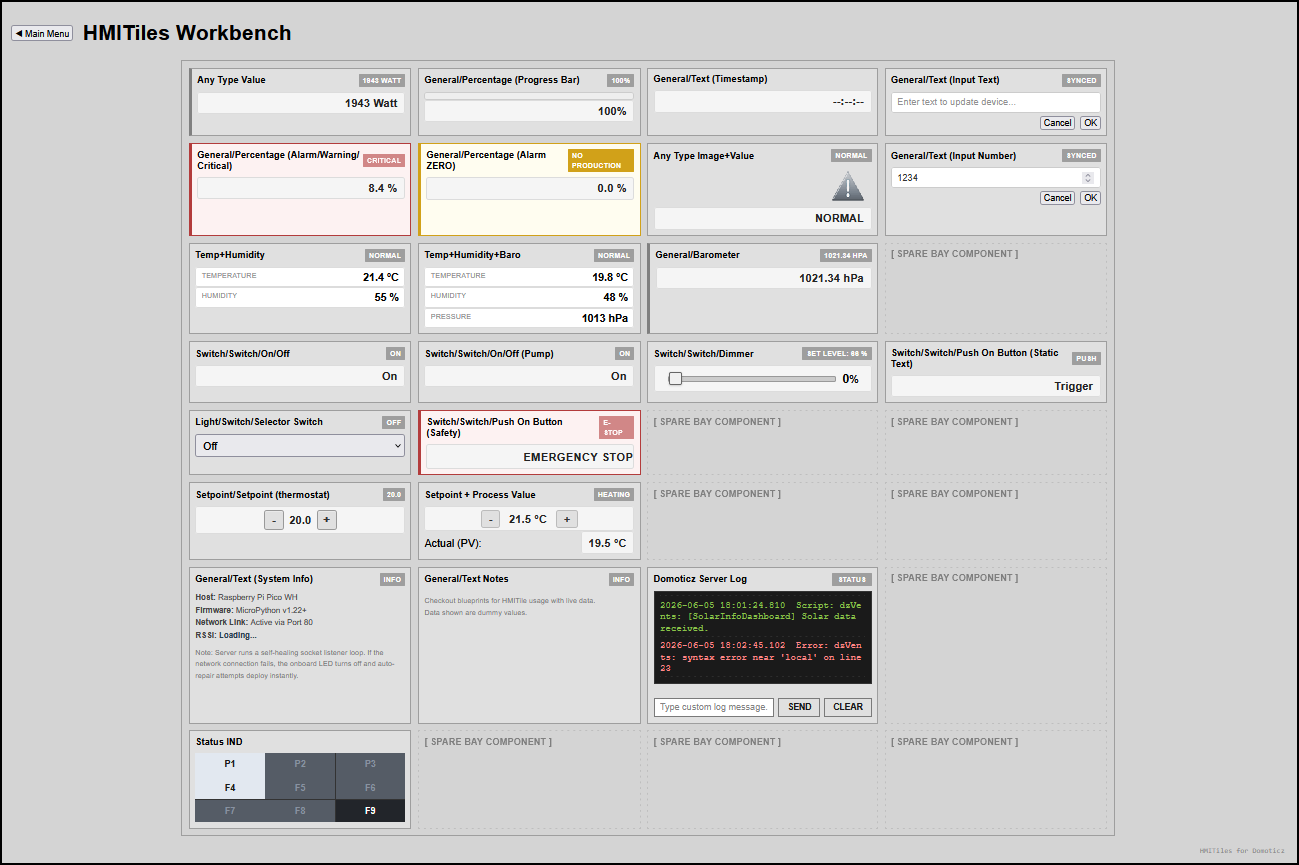
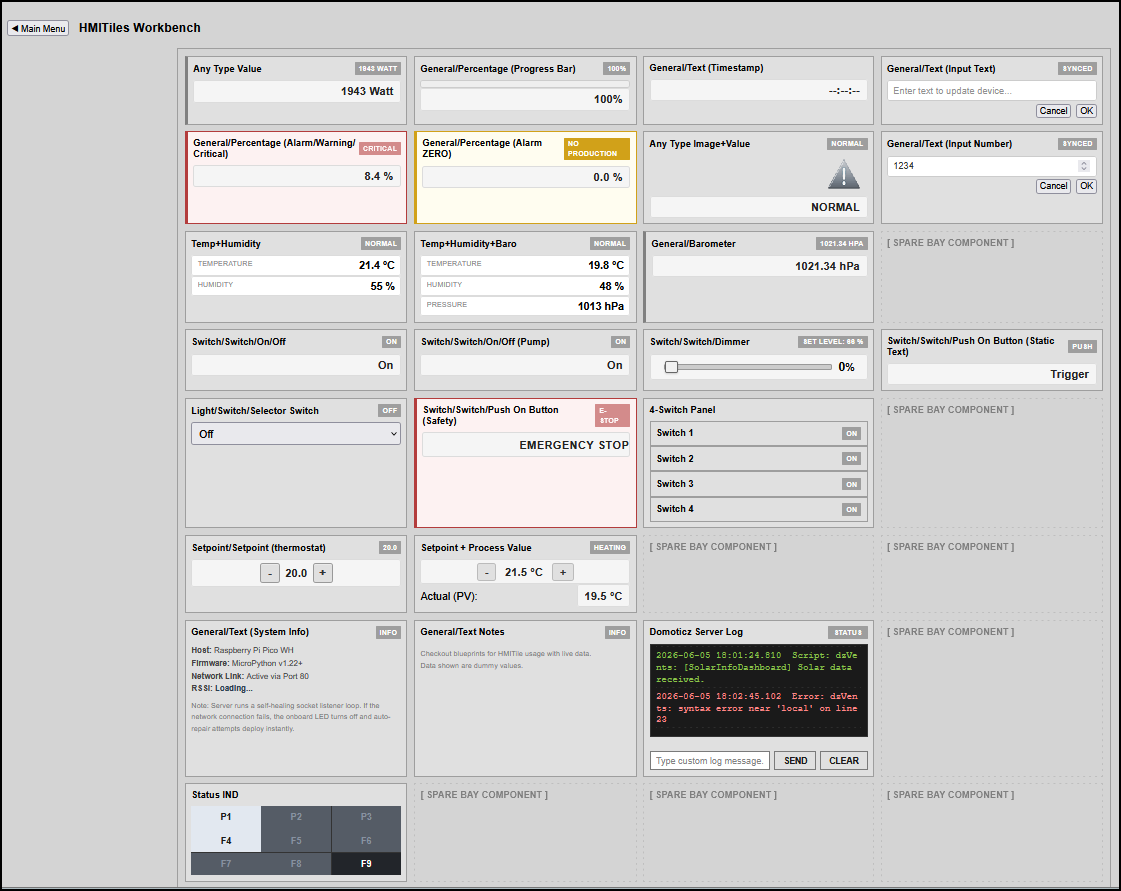
Update

diff --git a/blueprints/4switchpaneltile/4switchpaneltile/index.html b/blueprints/4switchpaneltile/4switchpaneltile/index.html
@@ -36,41 +36,74 @@
 				<div class="hmi-pack-label">4-Switch Panel</div>
 			</div>
 
-			<div class="hmi-value-grid" style="display: grid; grid-template-columns: repeat(2, 1fr); gap: 10px; width: 100%; margin-bottom: 12px;">
-
+			<div class="hmi-value-grid">
 				<!-- SWITCH 1 (IDX 1) -->
-				<div class="hmi-pack-card" data-type="switch" data-device-idx="1" style="margin: 0; min-height: auto;">
+				<div class="hmi-pack-innercard" data-type="switch" data-device-idx="1" style="margin: 0; min-height: auto;">
 					<div class="hmi-card-header">
 						<div class="hmi-pack-label">Switch 1</div>
 						<div class="hmi-badge hmi-clickable-badge">OFF</div>
 					</div>
 				</div>
-
 				<!-- SWITCH 2 (IDX 6) -->
-				<div class="hmi-pack-card" data-type="switch" data-device-idx="6" style="margin: 0; min-height: auto;">
+				<div class="hmi-pack-innercard" data-type="switch" data-device-idx="6" style="margin: 0; min-height: auto;">
 					<div class="hmi-card-header">
 						<div class="hmi-pack-label">Switch 2</div>
 						<div class="hmi-badge hmi-clickable-badge">OFF</div>
 					</div>
 				</div>
-
 				<!-- SWITCH 3 (IDX 17) -->
-				<div class="hmi-pack-card" data-type="switch" data-device-idx="17" style="margin: 0; min-height: auto;">
+				<div class="hmi-pack-innercard" data-type="switch" data-device-idx="17" style="margin: 0; min-height: auto;">
 					<div class="hmi-card-header">
 						<div class="hmi-pack-label">Switch 3</div>
 						<div class="hmi-badge hmi-clickable-badge">OFF</div>
 					</div>
 				</div>
-
 				<!-- SWITCH 4 (IDX 18) -->
-				<div class="hmi-pack-card" data-type="switch" data-device-idx="18" style="margin: 0; min-height: auto;">
+				<div class="hmi-pack-innercard" data-type="switch" data-device-idx="18" style="margin: 0; min-height: auto;">
 					<div class="hmi-card-header">
 						<div class="hmi-pack-label">Switch 4</div>
 						<div class="hmi-badge hmi-clickable-badge">OFF</div>
 					</div>
 				</div>
 			</div>
+		</div>
 
+		<div class="hmi-pack-card">
+
+			<div class="hmi-card-header">
+				<div class="hmi-pack-label">4-Switch Panel</div>
+			</div>
+
+			<div class="hmi-value-grid">
+				<!-- SWITCH 1 (IDX 1) -->
+				<div class="hmi-pack-innercard" data-type="switch" data-device-idx="1" style="margin: 0; min-height: auto;">
+					<div class="hmi-card-header">
+						<div class="hmi-pack-label">Switch 1</div>
+						<div class="hmi-badge hmi-clickable-badge">OFF</div>
+					</div>
+				</div>
+				<!-- SWITCH 2 (IDX 6) -->
+				<div class="hmi-pack-innercard" data-type="switch" data-device-idx="6" style="margin: 0; min-height: auto;">
+					<div class="hmi-card-header">
+						<div class="hmi-pack-label">Switch 2</div>
+						<div class="hmi-badge hmi-clickable-badge">OFF</div>
+					</div>
+				</div>
+				<!-- SWITCH 3 (IDX 17) -->
+				<div class="hmi-pack-innercard" data-type="switch" data-device-idx="17" style="margin: 0; min-height: auto;">
+					<div class="hmi-card-header">
+						<div class="hmi-pack-label">Switch 3</div>
+						<div class="hmi-badge hmi-clickable-badge">OFF</div>
+					</div>
+				</div>
+				<!-- SWITCH 4 (IDX 18) -->
+				<div class="hmi-pack-innercard" data-type="switch" data-device-idx="18" style="margin: 0; min-height: auto;">
+					<div class="hmi-card-header">
+						<div class="hmi-pack-label">Switch 4</div>
+						<div class="hmi-badge hmi-clickable-badge">OFF</div>
+					</div>
+				</div>
+			</div>
 		</div>
 
 

diff --git a/core/hmitiles.css b/core/hmitiles.css
@@ -156,6 +156,16 @@ hr.hmi-divider-short {
     gap: 12px;
 }
 
+/* Inner Card Container (e.g., PACK 1, PACK 2) */
+.hmi-pack-innercard {
+    background-color: var(--hmi-bg-card);
+    border: 1px solid var(--hmi-border-dark);
+    padding: 8px;
+    display: flex;
+    flex-direction: column;
+    gap: 8px;
+}
+
 /* ==========================================================================
    STATUS BADGES & INTERACTIVE CLICK CLASSIFICATIONS
    ========================================================================== */

diff --git a/core/hmitiles.js b/core/hmitiles.js
@@ -388,7 +388,8 @@ function setupControlListeners() {
         // HANDLE BADGE CLICK ACTIONS (Switches, Pumps, Valves, Blinds)
         const badge = event.target.closest('.hmi-clickable-badge');
         if (badge) {
-            const card = badge.closest('.hmi-pack-card');
+			// Supported are card and innercard (a card-within-a-card)
+            const card = badge.closest('.hmi-pack-card, .hmi-pack-innercard');
             if (!card) return;
 
             const idx = parseInt(card.getAttribute('data-device-idx'), 10);

diff --git a/blueprints/hmitilesworkbench/hmitilesworkbench/index.html b/blueprints/hmitilesworkbench/hmitilesworkbench/index.html
@@ -189,7 +189,7 @@ Description: All tiles have default Domoticz device idx set. Change accordingly 
 		<div style="display: flex; align-items: center; justify-content: space-between; width: 100%;">
 			<div style="display: flex; align-items: center; gap: 15px;">
 				<button class="hmi-exit-btn" onclick="goToDomoticzDashboard()">◀ Main Menu</button>
-				<h1>HMITiles Workbench</h1>
+				<h3>HMITiles Workbench</h3>
 			</div>
 		</div>
     </header>

diff --git a/blueprints/4switchpaneltile/README.md b/blueprints/4switchpaneltile/README.md
@@ -1,0 +1,77 @@
+### 📦 4-Switch Panel Tile (Multi-Switch Blueprint)
+
+The **4-Switch Panel Tile** is an advanced layout blueprint designed to aggregate multiple interactive switches within a single structural panel card. This avoids dashboard clutter and breaks the traditional "one device per tile" limitation of standard Domoticz widgets.
+
+![4-Switch Panel Preview](your-screenshot-url-here.png) <!-- Optional: Add your screenshot asset link here -->
+
+#### ✨ Key Features
+* **Zero Engine Changes**: Runs completely out-of-the-box using your existing `hmitiles.js` engine and `hmitiles.css` stylesheets. It works entirely by using native DOM query selectors.
+* **ISA-101 Style Layout**: Adheres to High-Performance HMI (HPHMI) standards by keeping functional strings left-aligned, text readable, and actionable state badges explicit (`ON`/`OFF`).
+* **Highly Adaptable**: Serves as an easy structural blueprint for other multi-switch combinations (e.g., 2x2 grids, or a single row of 3 horizontal switches).
+
+---
+
+#### 🛠️ HTML Blueprint (Stacked Rows Layout)
+
+To include this panel in your `index.html`, copy the markup block below. The outer wrapping container has its individual `data-type` and `data-device-idx` tags removed to prevent engine selector conflicts, allowing each inner row item to bind cleanly to its independent Domoticz IDX sequence:
+
+```html
+<!-- 4-SWITCH COMPACT PANEL BLOCK -->
+<div class="hmi-pack-card">
+    <!-- Panel Identification Header -->
+    <div class="hmi-card-header">
+        <div class="hmi-pack-label">4-Switch Panel</div>
+    </div>
+
+    <!-- Multi-Item Layout Flex Container -->
+    <div style="display: flex; flex-direction: column; gap: 8px; width: 100%; padding: 10px; box-sizing: border-box;">
+
+        <!-- SWITCH 1 (IDX 1) -->
+        <div class="hmi-pack-card" data-type="switch" data-device-idx="1" style="margin: 0; min-height: auto; width: 100%;">
+            <div class="hmi-card-header" style="border-bottom: none;">
+                <div class="hmi-pack-label">Living Room Light</div>
+                <div class="hmi-badge hmi-clickable-badge">OFF</div>
+            </div>
+        </div>
+
+        <!-- SWITCH 2 (IDX 6) -->
+        <div class="hmi-pack-card" data-type="switch" data-device-idx="6" style="margin: 0; min-height: auto; width: 100%;">
+            <div class="hmi-card-header" style="border-bottom: none;">
+                <div class="hmi-pack-label">Kitchen Ventilation</div>
+                <div class="hmi-badge hmi-clickable-badge">OFF</div>
+            </div>
+        </div>
+
+        <!-- SWITCH 3 (IDX 17) -->
+        <div class="hmi-pack-card" data-type="switch" data-device-idx="17" style="margin: 0; min-height: auto; width: 100%;">
+            <div class="hmi-card-header" style="border-bottom: none;">
+                <div class="hmi-pack-label">Dining Room Pendant</div>
+                <div class="hmi-badge hmi-clickable-badge">OFF</div>
+            </div>
+        </div>
+
+        <!-- SWITCH 4 (IDX 18) -->
+        <div class="hmi-pack-card" data-type="switch" data-device-idx="18" style="margin: 0; min-height: auto; width: 100%;">
+            <div class="hmi-card-header" style="border-bottom: none;">
+                <div class="hmi-pack-label">Hallway Nightlight</div>
+                <div class="hmi-badge hmi-clickable-badge">OFF</div>
+            </div>
+        </div>
+
+    </div>
+</div>
+```
+
+---
+
+#### 📐 Modification Blueprint Examples
+
+##### Alternative: 3 Horizontal Switches in a Row
+If you prefer a horizontal row layout for wider panels or top navigation toolbars, change the inner layout container style from a vertical flex column to a horizontal layout matrix:
+
+```html
+<!-- Replace the internal layout container with this block to split 3 items horizontally -->
+<div style="display: grid; grid-template-columns: repeat(3, 1fr); gap: 8px; width: 100%; padding: 10px; box-sizing: border-box;">
+    <!-- Add 3 standard switch card structures inside here -->
+</div>
+```